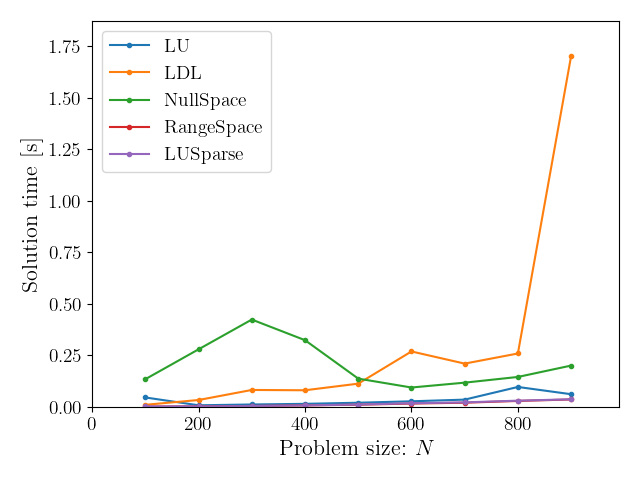
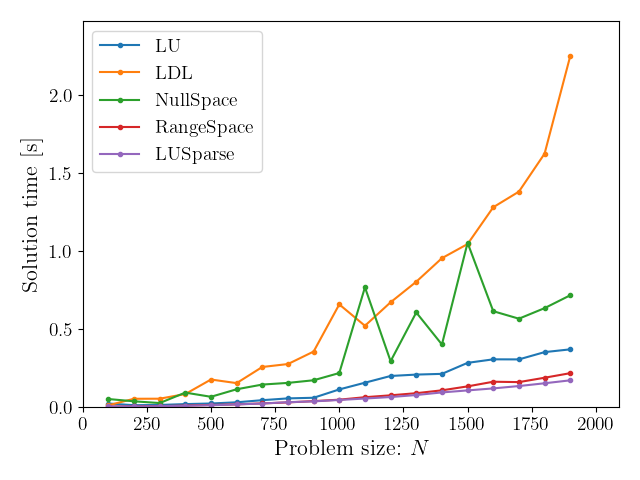
Commit on home pc

diff --git a/mtaho/w05/ex01.py b/mtaho/w05/ex01.py
@@ -111,7 +111,7 @@ print("lam_error = \n",
 
 types = ['LU', 'LDL', 'NullSpace',
          'RangeSpace', 'LUSparse']# 'LDLSparse']
-NArray = np.arange(100, 1000, 100)
+NArray = np.arange(100, 2000, 100)
 times = np.zeros((len(NArray), len(types)))
 outPath = f"{workDir}/timings_solvers.csv"
 
